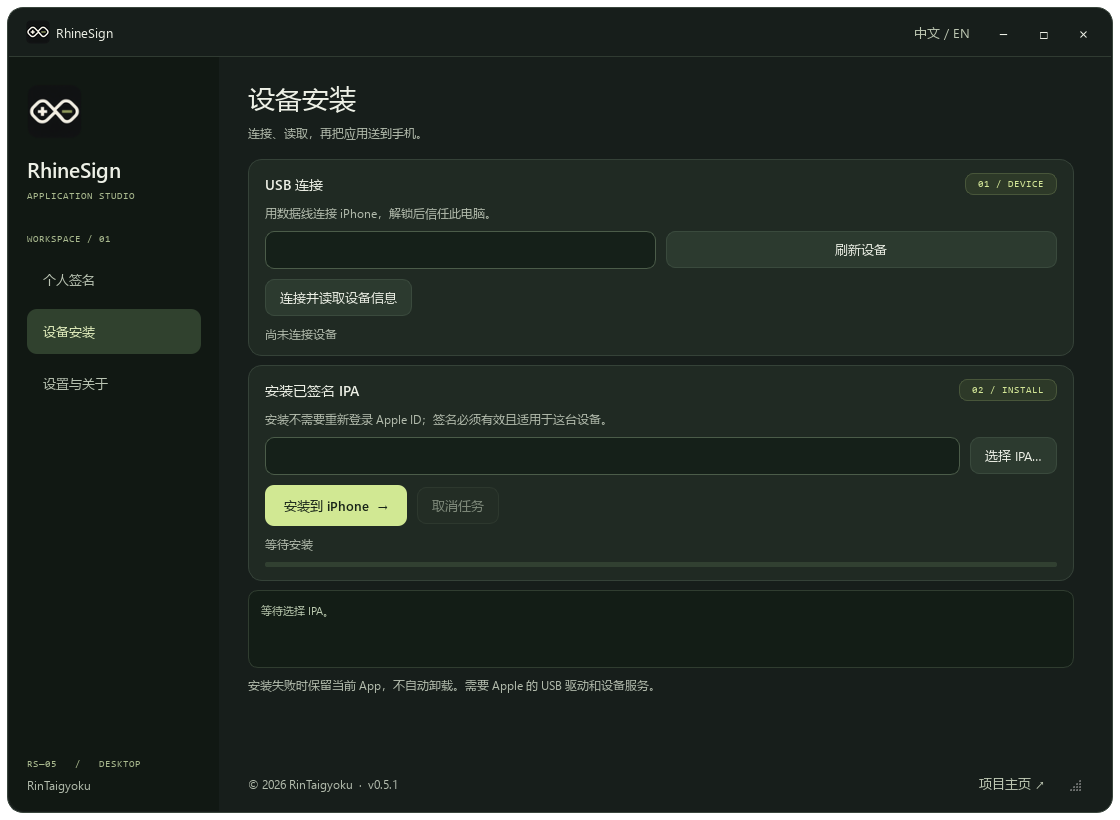
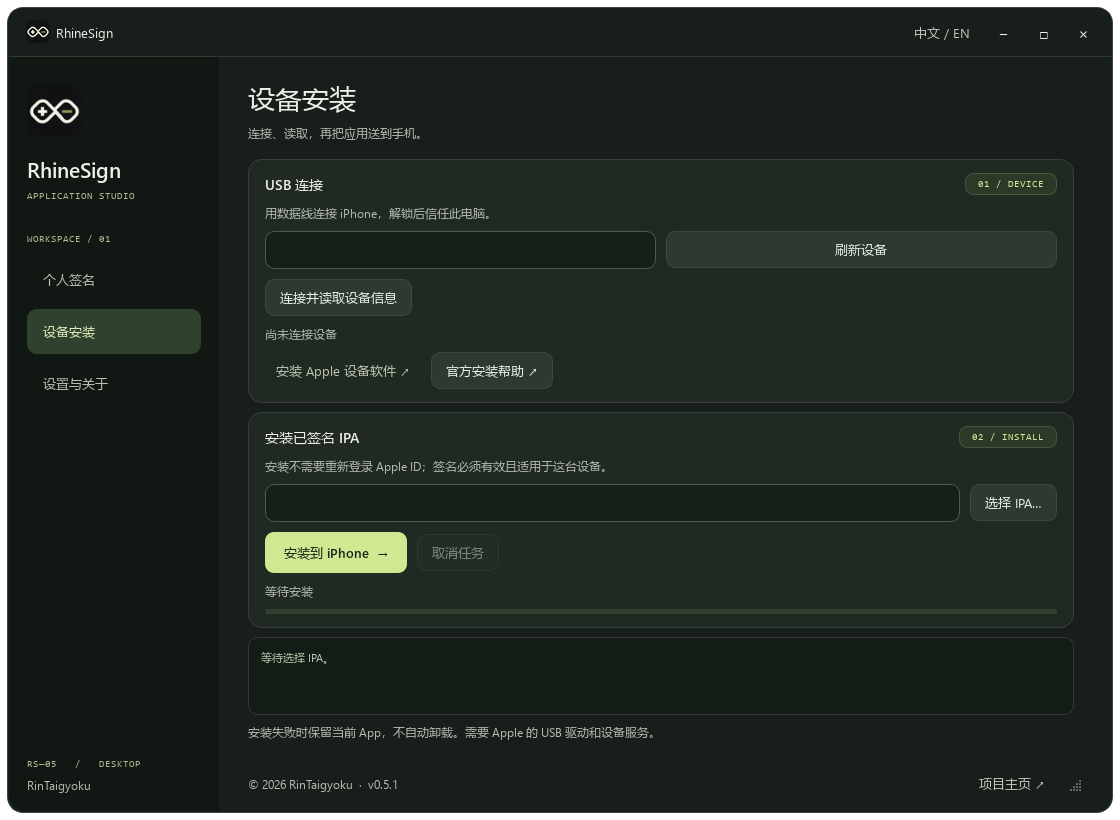
Diagnose local archive failures independently of Apple login

diff --git a/window.py b/window.py
@@ -105,7 +105,8 @@ class RhineWindow(QMainWindow,Operations,AuthDialogs):
     def build_install(self):
         layout=self.page_layouts['install'];device,box=card('USB 连接','01 / DEVICE');box.addWidget(label(t('用数据线连接 iPhone，解锁后信任此电脑。'),'muted'))
         self.selector=Combo();self.selector.addItems(self.device_labels());self.device_choice.bind(self.selector);self.refresh=Button(t('刷新设备'),self.refresh_devices);box.addLayout(row(self.selector,self.refresh));self.connect_button=Button(t('连接并读取设备信息'),self.connect_device);box.addLayout(row(self.connect_button,None))
-        self.device_status.set(t('尚未连接设备'));status=label('','muted');self.device_status.bind(status);box.addWidget(status);layout.addWidget(device)
+        self.device_status.set(t('尚未连接设备'));status=label('','muted');self.device_status.bind(status);box.addWidget(status)
+        self.driver_download=Button(t('安装 Apple 设备软件 ↗'),self.open_device_download);self.driver_download.setObjectName('quiet');box.addLayout(row(self.driver_download,Button(t('官方安装帮助 ↗'),self.open_driver_help),None));layout.addWidget(device)
         package,box=card('安装已签名 IPA','02 / INSTALL');box.addWidget(label(t('安装不需要重新登录 Apple ID；签名必须有效且适用于这台设备。'),'muted'));self.install_entry=Entry();self.install_ipa.bind(self.install_entry);self.install_pick=Button(t('选择 IPA…'),self.pick_install);box.addLayout(row(self.install_entry,self.install_pick))
         self.install_button=Button(t('安装到 iPhone  →'),self.start_install,True);self.install_cancel=Button(t('取消任务'),self.cancel);self.install_cancel.setEnabled(False);box.addLayout(row(self.install_button,self.install_cancel,None));self.install_status.set(t('等待安装'));status=label('','muted');self.install_status.bind(status);box.addWidget(status);self.install_progress=Progress();box.addWidget(self.install_progress);layout.addWidget(package)
         self.install_log=QPlainTextEdit();self.install_log.setReadOnly(True);self.install_log.setMaximumBlockCount(180);self.install_log.setFixedHeight(78);layout.addWidget(self.install_log)
@@ -115,6 +116,7 @@ class RhineWindow(QMainWindow,Operations,AuthDialogs):
         layout=self.page_layouts['settings'];about,box=card('署名','RHINESIGN / '+VERSION);box.addWidget(label('RinTaigyoku','brand'));box.addLayout(row(Button(t('GitHub 项目 ↗'),lambda:webbrowser.open(PROJECT)),Button(t('下载与更新 ↗'),lambda:webbrowser.open(PROJECT+'/releases')),Button(t('许可证'),self.open_license),None));layout.addWidget(about)
         for title,code,text in [('服务说明','AUTH / PRIVACY','认证请求发送给 Apple，认证辅助数据来自 ani.iloader.app。记住账号默认关闭；开启后账号密码由 Windows 当前用户加密保存，取消勾选会删除。验证码与登录会话不保存。签名密钥同样在本机加密保存。'),('使用限制','ACCOUNT / DEVICE','个人账户的有效期、设备与 App 数量由 Apple 限制。签名暂不支持带 App Extension 的 IPA；设备安装不提供绕过签名或开发者模式的功能。')]:
             frame,box=card(title,code);box.addWidget(label(t(text),'muted'));layout.addWidget(frame)
+        help_card,box=card('连接帮助','HELP / USB');box.addWidget(label(t('首次连接：安装 Apple 设备软件，解锁 iPhone 并信任电脑，再回到设备安装页刷新。'),'muted'));box.addLayout(row(Button(t('安装 Apple 设备软件 ↗'),self.open_device_download),Button(t('官方安装帮助 ↗'),self.open_driver_help),None));layout.addWidget(help_card)
         layout.addStretch()
     def show(self,page=None):
         if page is None:return super().show()

diff --git a/tests/test_desktop.py b/tests/test_desktop.py
@@ -7,6 +7,17 @@ ROOT=Path(__file__).resolve().parents[1]
 class DesktopTests(unittest.TestCase):
     def tearDown(self):i18n.set_language('zh')
 
+    def test_driver_help_uses_official_pages(self):
+        from operations import Operations
+        from unittest.mock import patch
+        from urllib.parse import urlparse
+        target=Operations()
+        with patch('operations.webbrowser.open')as opened:
+            target.open_device_download();self.assertEqual(urlparse(opened.call_args.args[0]).hostname,'apps.microsoft.com')
+            for lang in ('zh','en'):
+                i18n.set_language(lang);target.open_driver_help()
+                self.assertEqual(urlparse(opened.call_args.args[0]).hostname,'support.apple.com')
+
     def test_password_and_verification_code_visibility(self):
         from qt_helpers import Entry,add_visibility_toggle
         from PySide6.QtWidgets import QLineEdit

diff --git a/operations.py b/operations.py
@@ -4,6 +4,7 @@ from security import BASE,BUNDLE,VERSION,key_storage,validate,save_account
 from i18n import tr as t,set_language,language
 from qt_helpers import messagebox,filedialog
 PROJECT='https://github.com/RinTaigyoku/RhineSign'
+APPLE_DEVICES='https://apps.microsoft.com/detail/9np83lwlpz9k'
 SETTINGS=BASE/'.rhinesign-settings.json'
 def read_settings():
     try:
@@ -38,6 +39,10 @@ def cleanup_workspace(path, pid, base=BASE):
         shutil.rmtree(path)
 
 class Operations:
+
+    def open_device_download(self):webbrowser.open(APPLE_DEVICES)
+
+    def open_driver_help(self):webbrowser.open('https://support.apple.com/'+('zh-cn'if language()=='zh'else'en-us')+'/118290')
 
     def persist_account(self):
         if self.preview:return True

diff --git a/i18n.py b/i18n.py
@@ -8,6 +8,8 @@ def set_language(value):
     _language=value
 
 EN={
+'安装 Apple 设备软件 ↗':'Get Apple Devices ↗','官方安装帮助 ↗':'Official setup help ↗','连接帮助':'Connection help',
+'首次连接：安装 Apple 设备软件，解锁 iPhone 并信任电脑，再回到设备安装页刷新。':'First connection: install Apple Devices, unlock and trust your iPhone, then refresh the Devices page.',
 '最小化到任务栏':'Minimize to taskbar','最大化或恢复':'Maximize or restore',
 '显示密码':'Show password','隐藏密码':'Hide password',
 '显示验证码':'Show verification code','隐藏验证码':'Hide verification code',

diff --git a/README.md b/README.md
@@ -58,7 +58,7 @@
 
 ## 怎么用
 
-1. 安装 Apple 官方的 Windows 设备驱动与设备服务。电脑已经能通过 Apple Devices 或 iTunes 识别手机的话，通常可以直接用。
+1. 安装 Apple 官方的 Windows 设备软件。程序“设备安装”和“设置与关于”均有下载与帮助按钮，也可以查看 [Apple 官方安装说明](https://support.apple.com/zh-cn/118290)，或打开 [Microsoft Store 的 Apple 设备页面](https://apps.microsoft.com/detail/9np83lwlpz9k)。电脑已经能通过 Apple Devices 或 iTunes 识别手机的话，通常可以直接用。
 2. 数据线连接 iPhone，解锁，在手机上信任电脑。打开“设备安装”，刷新并连接设备，UDID 会带到签名页。
 3. 在“个人签名”填写 Apple ID、登录密码，选择任意 IPA。阅读设置里的服务说明，勾选同意后开始。需要双重认证时，在弹窗输入验证码。
 4. 签名完成后，到程序旁的 `签名输出` 找到新 IPA。原文件不会覆盖。可以勾选签名完成后安装，也可以在“设备安装”单独选择已有签名的 IPA。

diff --git a/CHANGELOG.md b/CHANGELOG.md
@@ -7,6 +7,7 @@
 - 记住账号选项放在密码框下方靠右；签名期间保留密码掩码，避免被误认为没有填写。
 - 密码和双重验证码输入框增加显示／隐藏按钮，默认隐藏。
 - 最小化按钮增加中英提示，补充窗口最小化与恢复检查。
+- 设备安装和设置页增加 Apple 设备官方商店下载与安装帮助入口。
 - 打包、资源校验及保存阶段分别报告，显示本地故障分类，避免误导为认证失败。
 - 新增不登录 Apple 的离线重打包检查入口。
 
